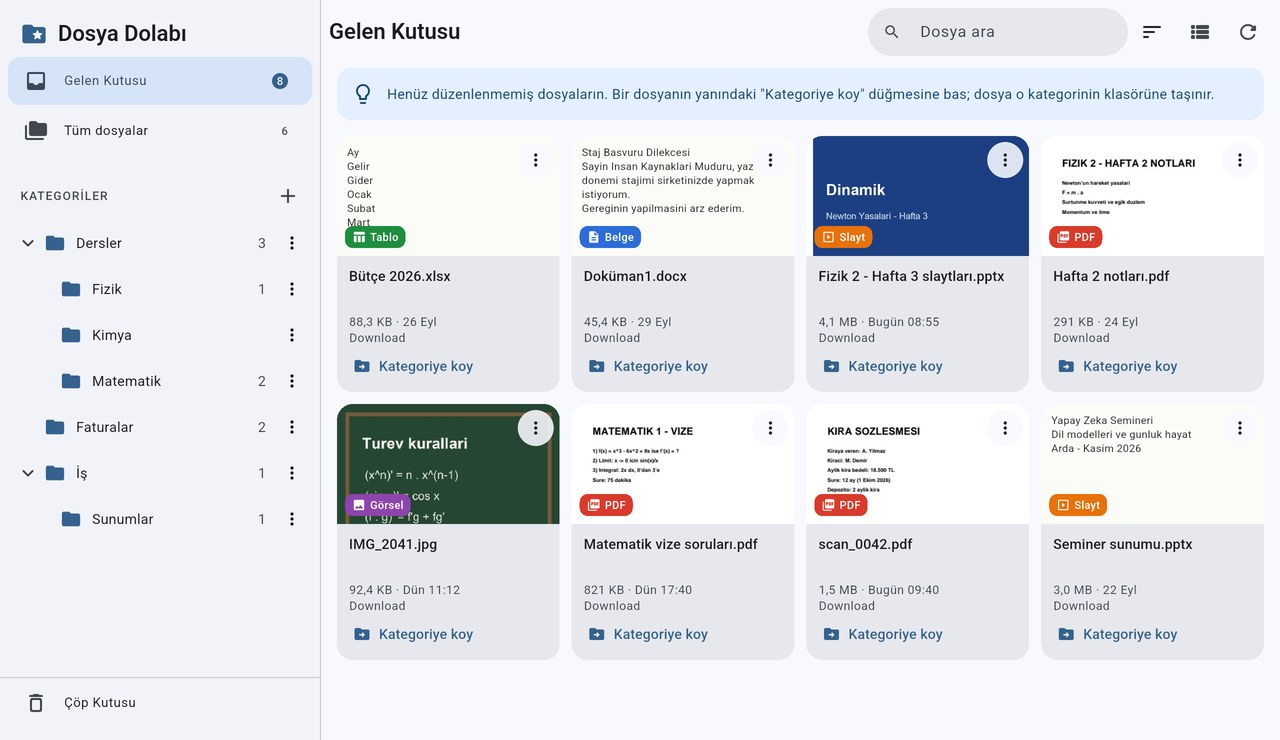
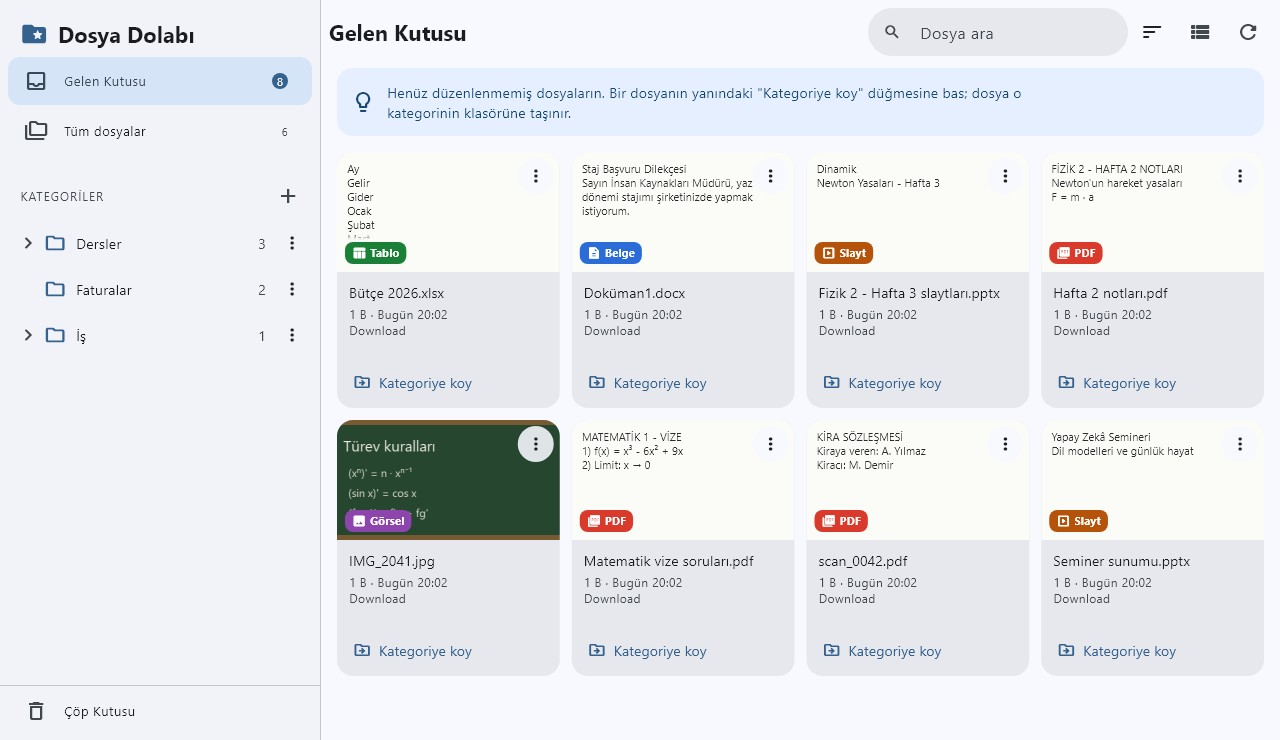
Tasarim denetimi: etiket kontrasti, bilgi seridi genisligi, cizgisel ikonlar
- Slayt, Tablo ve Diger etiket renkleri beyaz metinle en az 4.5:1
- Gelen Kutusu bilgi seridinde metin en fazla 640px
- Kartta ad ve ayrinti tek grup, "Kategoriye koy" altta
- Klasor, gelen kutusu, tasima ve cop ikonlari _outlined
- docs/screenshot.jpg yenilendi

diff --git a/lib/src/ui/file_view.dart b/lib/src/ui/file_view.dart
@@ -50,7 +50,7 @@ class FileView extends StatelessWidget {
                   children: [
                     for (final c in subs)
                       ActionChip(
-                        avatar: const Icon(Icons.folder_rounded, size: 20),
+                        avatar: const Icon(Icons.folder_outlined, size: 20),
                         label: Text(
                           c.totalFiles == 0
                               ? c.name
@@ -127,14 +127,18 @@ class _Hint extends StatelessWidget {
       padding: const EdgeInsets.all(14),
       decoration: BoxDecoration(
         color: cs.primaryContainer.withValues(alpha: 0.5),
-        borderRadius: BorderRadius.circular(14),
+        borderRadius: BorderRadius.circular(16),
       ),
       child: Row(
         children: [
           Icon(Icons.lightbulb_outline, color: cs.onPrimaryContainer),
           const SizedBox(width: 12),
-          Expanded(
-            child: Text(text, style: TextStyle(color: cs.onPrimaryContainer)),
+          // Şerit tam genişlikte, metin okunur satır uzunluğunda (~75 karakter).
+          Flexible(
+            child: ConstrainedBox(
+              constraints: const BoxConstraints(maxWidth: 640),
+              child: Text(text, style: TextStyle(color: cs.onPrimaryContainer)),
+            ),
           ),
         ],
       ),
@@ -158,19 +162,19 @@ class _Empty extends StatelessWidget {
           )
         : switch (state.place.section) {
             Section.inbox => (
-              Icons.inbox_rounded,
+              Icons.inbox_outlined,
               'Gelen Kutusu boş',
               'İndirdiğin ya da aldığın yeni PDF ve sunum dosyaları burada '
                   'görünür. Hepsini düzenledin!',
             ),
             Section.all => (
-              Icons.folder_open_rounded,
+              Icons.folder_open_outlined,
               'Dolap henüz boş',
               'Gelen Kutusu\'ndaki dosyaları bir kategoriye koyduğunda '
                   'burada görünür.',
             ),
             _ => (
-              Icons.folder_open_rounded,
+              Icons.folder_open_outlined,
               'Bu kategori boş',
               'Gelen Kutusu\'ndan dosya taşıyabilirsin.',
             ),
@@ -406,27 +410,34 @@ class _FileCard extends StatelessWidget {
                 child: Column(
                   crossAxisAlignment: CrossAxisAlignment.start,
                   children: [
+                    // Ad ile ayrıntı bir grup (4px), eylem en altta.
                     Expanded(
-                      child: Text(
-                        file.name,
-                        maxLines: 2,
-                        overflow: TextOverflow.ellipsis,
-                        style: Theme.of(context).textTheme.titleSmall,
+                      child: Column(
+                        crossAxisAlignment: CrossAxisAlignment.start,
+                        children: [
+                          Text(
+                            file.name,
+                            maxLines: 2,
+                            overflow: TextOverflow.ellipsis,
+                            style: Theme.of(context).textTheme.titleSmall,
+                          ),
+                          const SizedBox(height: 4),
+                          Text(
+                            '${formatSize(file.size)} · ${formatDate(file.modified)}',
+                            style: sub,
+                            maxLines: 1,
+                            overflow: TextOverflow.ellipsis,
+                          ),
+                          if (showWhere)
+                            Text(
+                              state.whereIs(file),
+                              style: sub,
+                              maxLines: 1,
+                              overflow: TextOverflow.ellipsis,
+                            ),
+                        ],
                       ),
                     ),
-                    Text(
-                      '${formatSize(file.size)} · ${formatDate(file.modified)}',
-                      style: sub,
-                      maxLines: 1,
-                      overflow: TextOverflow.ellipsis,
-                    ),
-                    if (showWhere)
-                      Text(
-                        state.whereIs(file),
-                        style: sub,
-                        maxLines: 1,
-                        overflow: TextOverflow.ellipsis,
-                      ),
                     if (!file.inLibrary && !state.selecting)
                       Align(
                         alignment: Alignment.centerLeft,
@@ -437,7 +448,7 @@ class _FileCard extends StatelessWidget {
                           ),
                           onPressed: () => moveDocs(context, state, [file]),
                           icon: const Icon(
-                            Icons.drive_file_move_rounded,
+                            Icons.drive_file_move_outlined,
                             size: 18,
                           ),
                           label: const Text('Kategoriye koy'),
@@ -513,13 +524,13 @@ class _FileRow extends StatelessWidget {
                   if (!file.inLibrary && compact)
                     IconButton.filledTonal(
                       tooltip: 'Kategoriye koy',
-                      icon: const Icon(Icons.drive_file_move_rounded),
+                      icon: const Icon(Icons.drive_file_move_outlined),
                       onPressed: () => moveDocs(context, state, [file]),
                     )
                   else if (!file.inLibrary)
                     FilledButton.tonalIcon(
                       onPressed: () => moveDocs(context, state, [file]),
-                      icon: const Icon(Icons.drive_file_move_rounded, size: 18),
+                      icon: const Icon(Icons.drive_file_move_outlined, size: 18),
                       label: const Text('Kategoriye koy'),
                     ),
                   _FileMenu(state: state, file: file),

diff --git a/lib/src/ui/sidebar.dart b/lib/src/ui/sidebar.dart
@@ -102,7 +102,7 @@ class Sidebar extends StatelessWidget {
               ),
             ),
             _NavTile(
-              icon: Icons.inbox_rounded,
+              icon: Icons.inbox_outlined,
               label: 'Gelen Kutusu',
               count: state.inboxCount,
               highlight: state.inboxCount > 0,
@@ -110,7 +110,7 @@ class Sidebar extends StatelessWidget {
               onTap: () => _go(const Place.inbox()),
             ),
             _NavTile(
-              icon: Icons.folder_copy_rounded,
+              icon: Icons.folder_copy_outlined,
               label: 'Tüm dosyalar',
               count: state.totalCount,
               selected: state.place == const Place.all(),
@@ -147,7 +147,7 @@ class Sidebar extends StatelessWidget {
             ),
             const Divider(height: 1),
             _NavTile(
-              icon: Icons.delete_outline_rounded,
+              icon: Icons.delete_outline,
               label: 'Çöp Kutusu',
               count: state.trashCount,
               selected: state.place == const Place.trash(),
@@ -290,7 +290,7 @@ class _CategoryRow extends StatelessWidget {
                         ),
                 ),
                 Icon(
-                  selected ? Icons.folder_open_rounded : Icons.folder_rounded,
+                  selected ? Icons.folder_open_outlined : Icons.folder_outlined,
                   size: 22,
                   color: selected ? fg : cs.primary,
                 ),

diff --git a/lib/src/file_kind.dart b/lib/src/file_kind.dart
@@ -2,14 +2,17 @@ import 'package:flutter/material.dart';
 import 'package:path/path.dart' as p;
 
 /// Kullanıcının göreceği dosya türü grupları.
+///
+/// Renkler beyaz etiket metniyle en az 4.5:1 verecek tonda (Slayt, Tablo ve
+/// Diğer önceki tonlarında 3:1 ile 4.4:1 arasındaydı).
 enum FileKind {
   pdf('PDF', Icons.picture_as_pdf_rounded, Color(0xFFD93A2B)),
-  slides('Slayt', Icons.slideshow_rounded, Color(0xFFE8710A)),
+  slides('Slayt', Icons.slideshow_rounded, Color(0xFFB45309)),
   document('Belge', Icons.description_rounded, Color(0xFF2B6CD9)),
-  sheet('Tablo', Icons.table_chart_rounded, Color(0xFF1E8E3E)),
+  sheet('Tablo', Icons.table_chart_rounded, Color(0xFF1A7F37)),
   image('Görsel', Icons.image_rounded, Color(0xFF8E44AD)),
   archive('Arşiv', Icons.folder_zip_rounded, Color(0xFF6D6D6D)),
-  other('Diğer', Icons.insert_drive_file_rounded, Color(0xFF607D8B));
+  other('Diğer', Icons.insert_drive_file_rounded, Color(0xFF546E7A));
 
   const FileKind(this.label, this.icon, this.color);
 

diff --git a/lib/src/ui/home_page.dart b/lib/src/ui/home_page.dart
@@ -460,7 +460,7 @@ class _SelectionBar extends StatelessWidget {
             ),
             IconButton.filled(
               tooltip: moveLabel,
-              icon: const Icon(Icons.drive_file_move_rounded),
+              icon: const Icon(Icons.drive_file_move_outlined),
               onPressed: chosen.isEmpty
                   ? null
                   : () => moveDocs(context, state, chosen),
@@ -475,7 +475,7 @@ class _SelectionBar extends StatelessWidget {
               onPressed: chosen.isEmpty
                   ? null
                   : () => moveDocs(context, state, chosen),
-              icon: const Icon(Icons.drive_file_move_rounded),
+              icon: const Icon(Icons.drive_file_move_outlined),
               label: Text(moveLabel),
             ),
             const SizedBox(width: 4),

diff --git a/lib/src/ui/file_preview.dart b/lib/src/ui/file_preview.dart
@@ -306,7 +306,7 @@ class _PreviewDialog extends StatelessWidget {
                           moveDocs(ownerContext, state, [file]);
                         }
                       },
-                      icon: const Icon(Icons.drive_file_move_rounded, size: 18),
+                      icon: const Icon(Icons.drive_file_move_outlined, size: 18),
                       label: const Text('Kategoriye koy'),
                     ),
                   FilledButton.icon(

diff --git a/lib/src/ui/trash_view.dart b/lib/src/ui/trash_view.dart
@@ -21,7 +21,7 @@ class TrashView extends StatelessWidget {
         child: Column(
           mainAxisSize: MainAxisSize.min,
           children: [
-            Icon(Icons.delete_outline_rounded, size: 72, color: cs.outline),
+            Icon(Icons.delete_outline, size: 72, color: cs.outline),
             const SizedBox(height: 12),
             Text(
               'Çöp kutusu boş',
